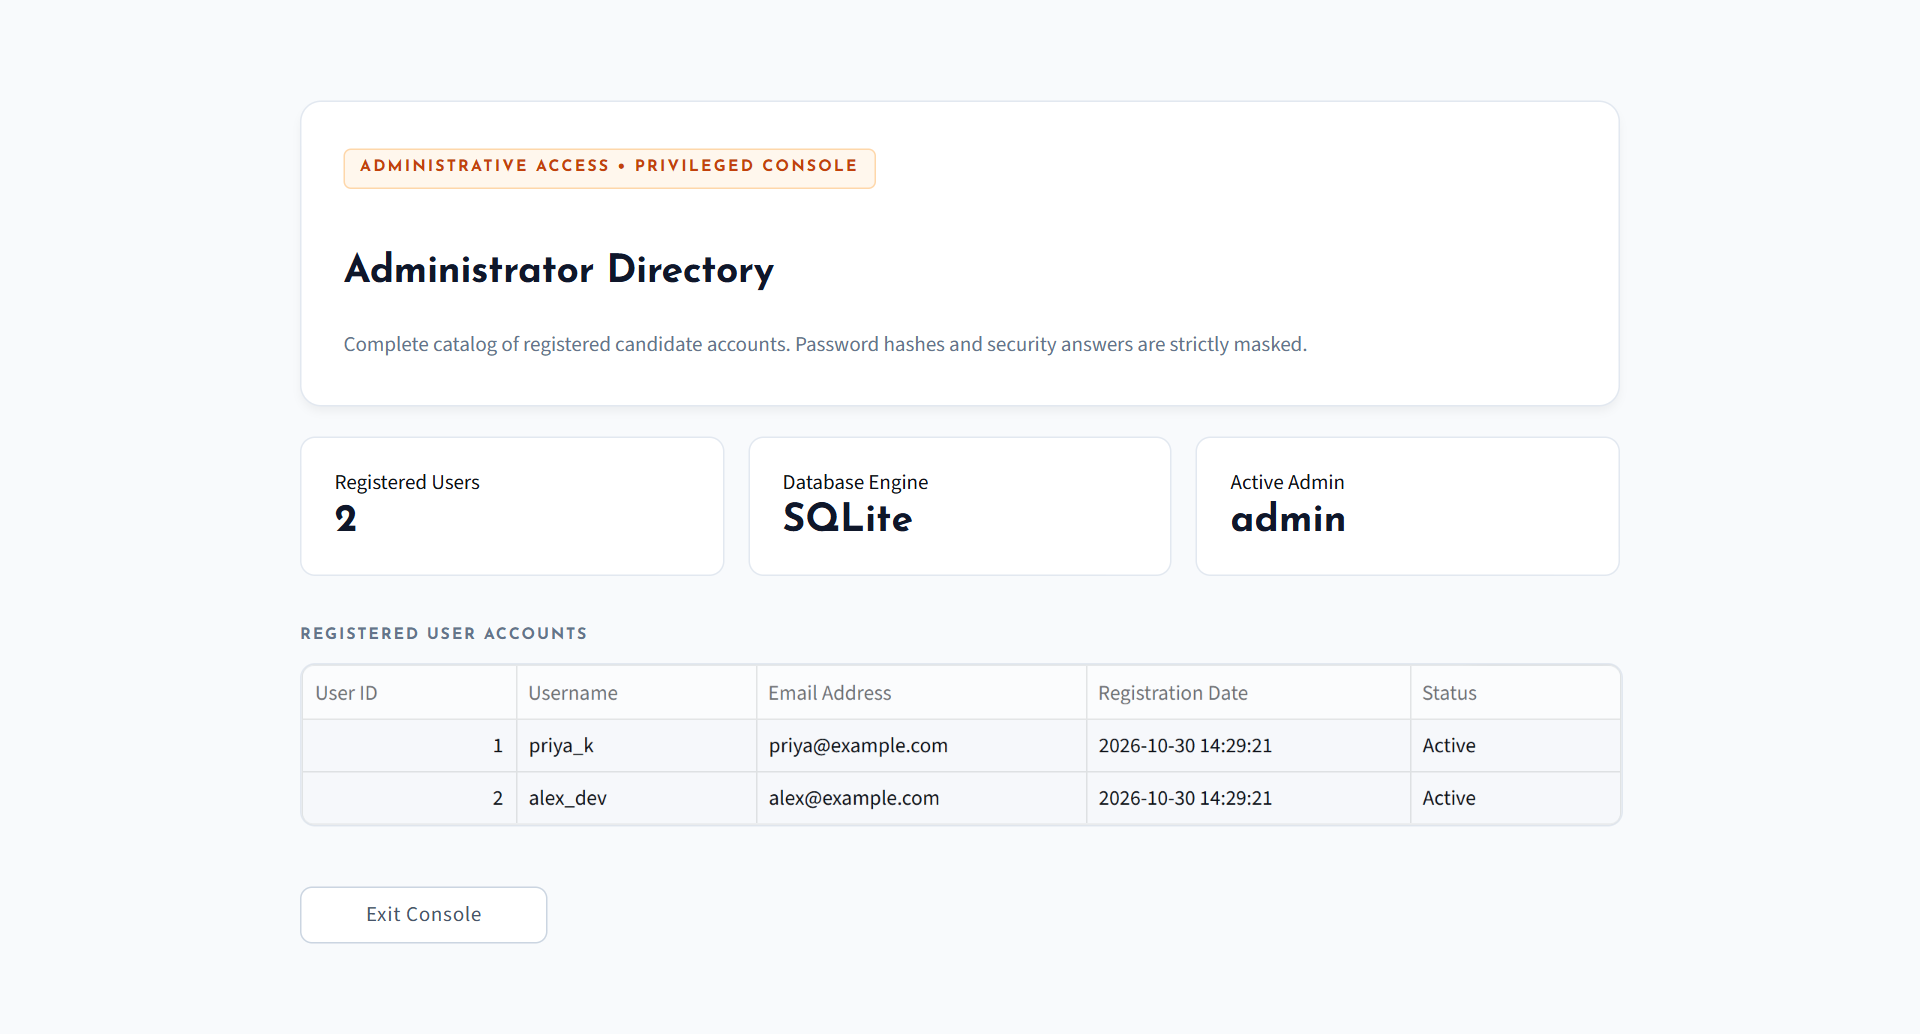
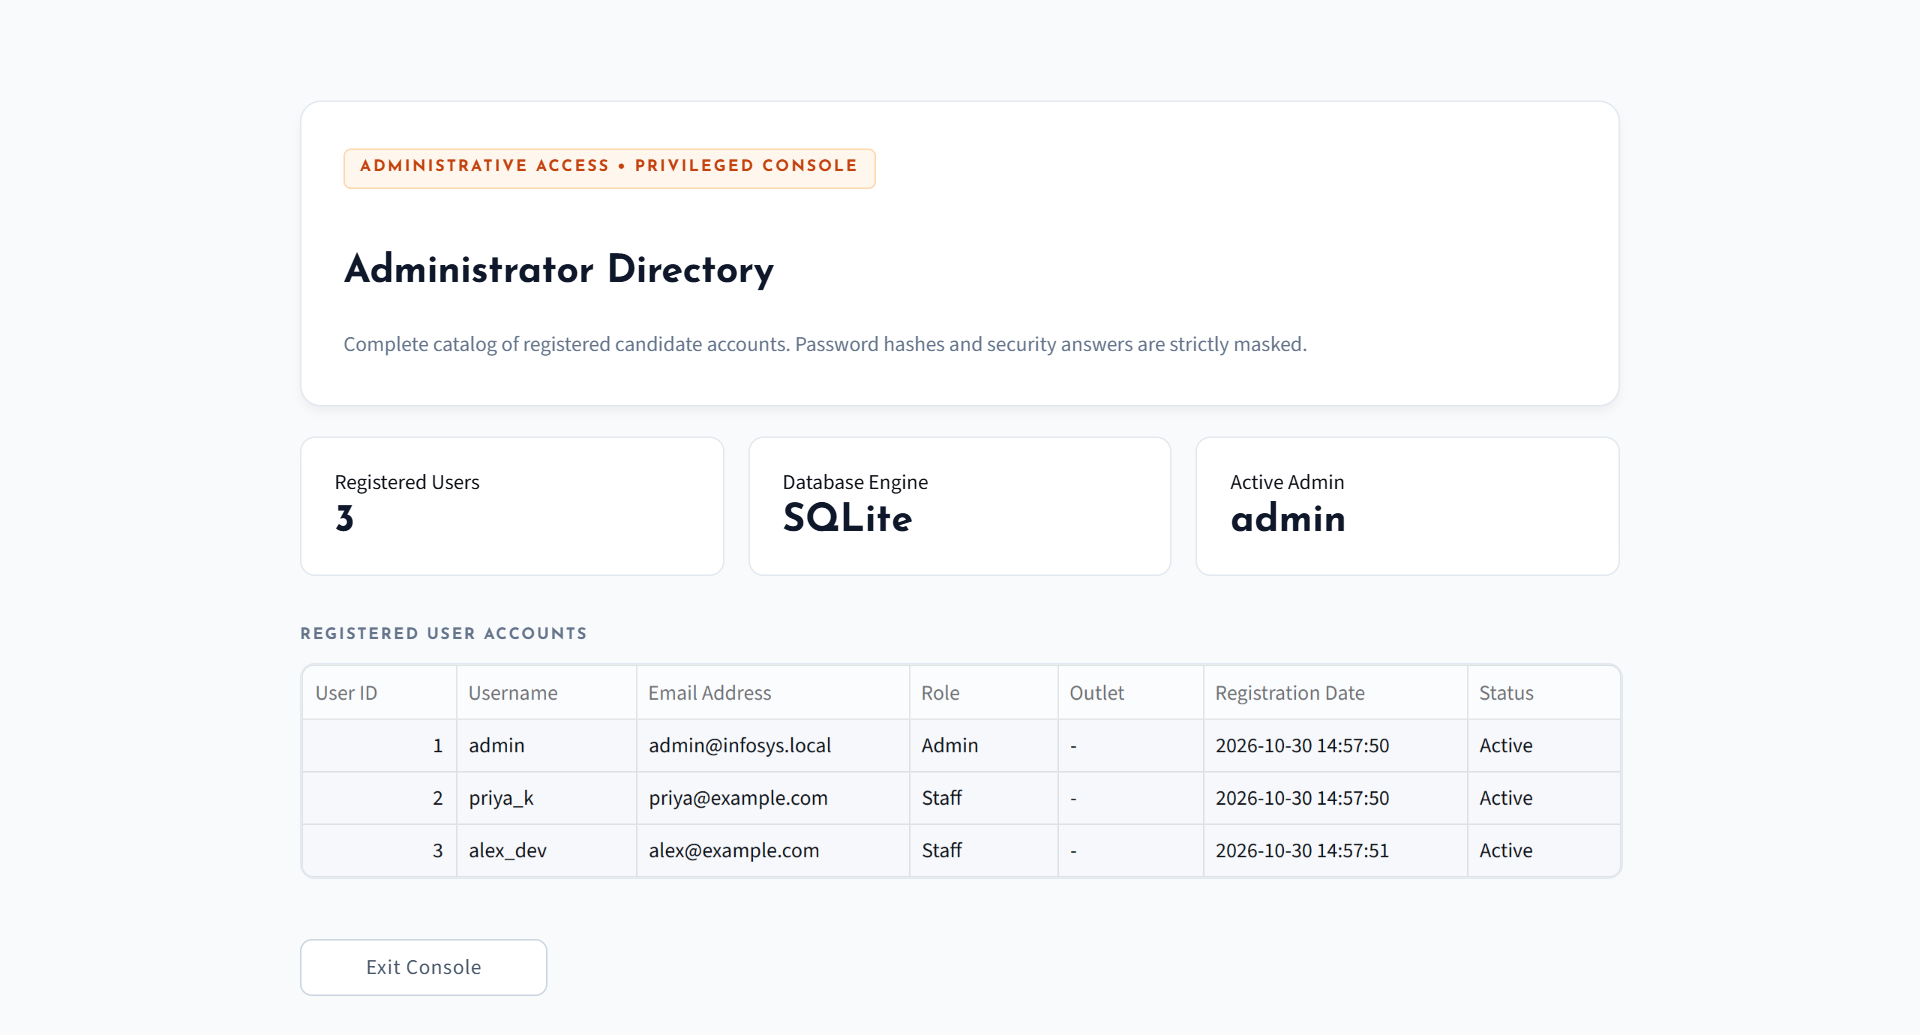
feat: lock sign-in after 5 wrong passwords, refresh admin screenshot, add secret-rotation note
- config: MAX_LOGIN_ATTEMPTS 3 -> 5 (matches Milestone 2); lockout test uses the constant
- notebook and README synced
- screenshot 08 re-captured with Role and Outlet columns
- README: rotate secrets, do not reuse old defaults

diff --git a/Milestone1/tests/test_auth.py b/Milestone1/tests/test_auth.py
@@ -10,7 +10,7 @@ import os
 import tempfile
 import pytest
 from Milestone1.src.database import init_db, get_connection
-from Milestone1.src.config import SECURITY_QUESTIONS, ADMIN_USERNAME, ADMIN_PASSWORD
+from Milestone1.src.config import SECURITY_QUESTIONS, ADMIN_USERNAME, ADMIN_PASSWORD, MAX_LOGIN_ATTEMPTS
 from Milestone1.src.security import verify_jwt_token
 from Milestone1.src.auth_service import (
     register_user,
@@ -138,12 +138,12 @@ def test_login_brute_force_lockout(auth_db):
     _, _, dev_otp = stage_signup(username, email, password, password, SECURITY_QUESTIONS[0], "Answer", db_path=auth_db)
     complete_signup(email, dev_otp, db_path=auth_db)
 
-    # 3 consecutive failed logins
-    for i in range(3):
+    # Consecutive failed logins up to the limit
+    for i in range(MAX_LOGIN_ATTEMPTS):
         ok, _, msg, _ = login_user(username, f"WrongPassword@{i}", db_path=auth_db)
         assert not ok
 
-    # 4th login attempt should report account locked
+    # The next login attempt should report account locked
     ok, _, msg, _ = login_user(username, password, db_path=auth_db)
     assert not ok
     assert "locked" in msg.lower()

diff --git a/Milestone1/src/config.py b/Milestone1/src/config.py
@@ -77,7 +77,7 @@ MAX_OTP_ATTEMPTS = 3
 OTP_RESEND_COOLDOWN_SECONDS = 60
 
 # Rate Limiting & Lockout
-MAX_LOGIN_ATTEMPTS = 3
+MAX_LOGIN_ATTEMPTS = 5
 LOCKOUT_SECONDS = 300  # 5 minutes lockout
 
 # Admin Credentials (read from Colab Secrets / environment only; no password default)

diff --git a/Milestone1/README.md b/Milestone1/README.md
@@ -18,7 +18,7 @@ Highlights: one sign-in page for users and the administrator, instant account cr
    - No email OTP is needed to create an account; the record is saved immediately with salted bcrypt hashes.
 2. **Dual-Identifier Login**:
    - One sign-in page for both users and the administrator, using **Username or Email Address** and Password.
-   - 3 consecutive wrong passwords lock sign-in for 5 minutes.
+   - 5 consecutive wrong passwords lock sign-in for 5 minutes.
    - Returns generic error messages (*"Invalid username/email or password."*) to prevent user enumeration attacks.
 3. **JWT Session Management**:
    - Generates cryptographically signed **HS256 JSON Web Tokens (JWT)** upon successful authentication.
@@ -108,6 +108,8 @@ When running inside Google Colab, open the **Secrets** panel (key icon in the le
 | `ADMIN_EMAIL` | (Optional) Admin account email | Defaults to `admin@infosys.local` |
 
 > **Important:** Ensure the toggle switch for **"Notebook access"** is turned **ON** for each secret.
+>
+> **Rotate old values:** earlier versions of this repository shipped default JWT and admin-password values. Always set freshly generated secrets and never reuse those old defaults.
 
 #### 5.2. Gmail App Password Setup
 1. Visit your Google Account: [myaccount.google.com](https://myaccount.google.com/).
